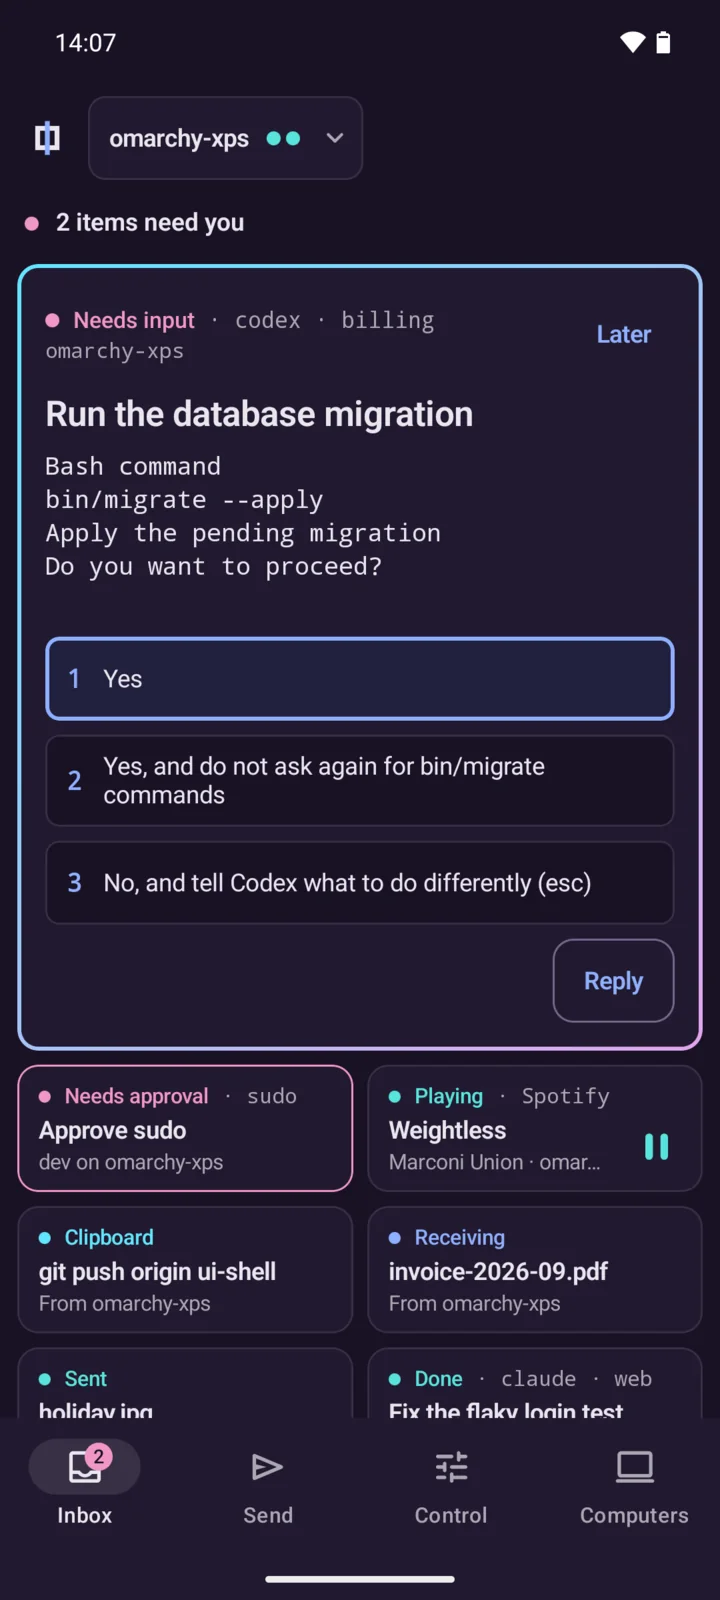
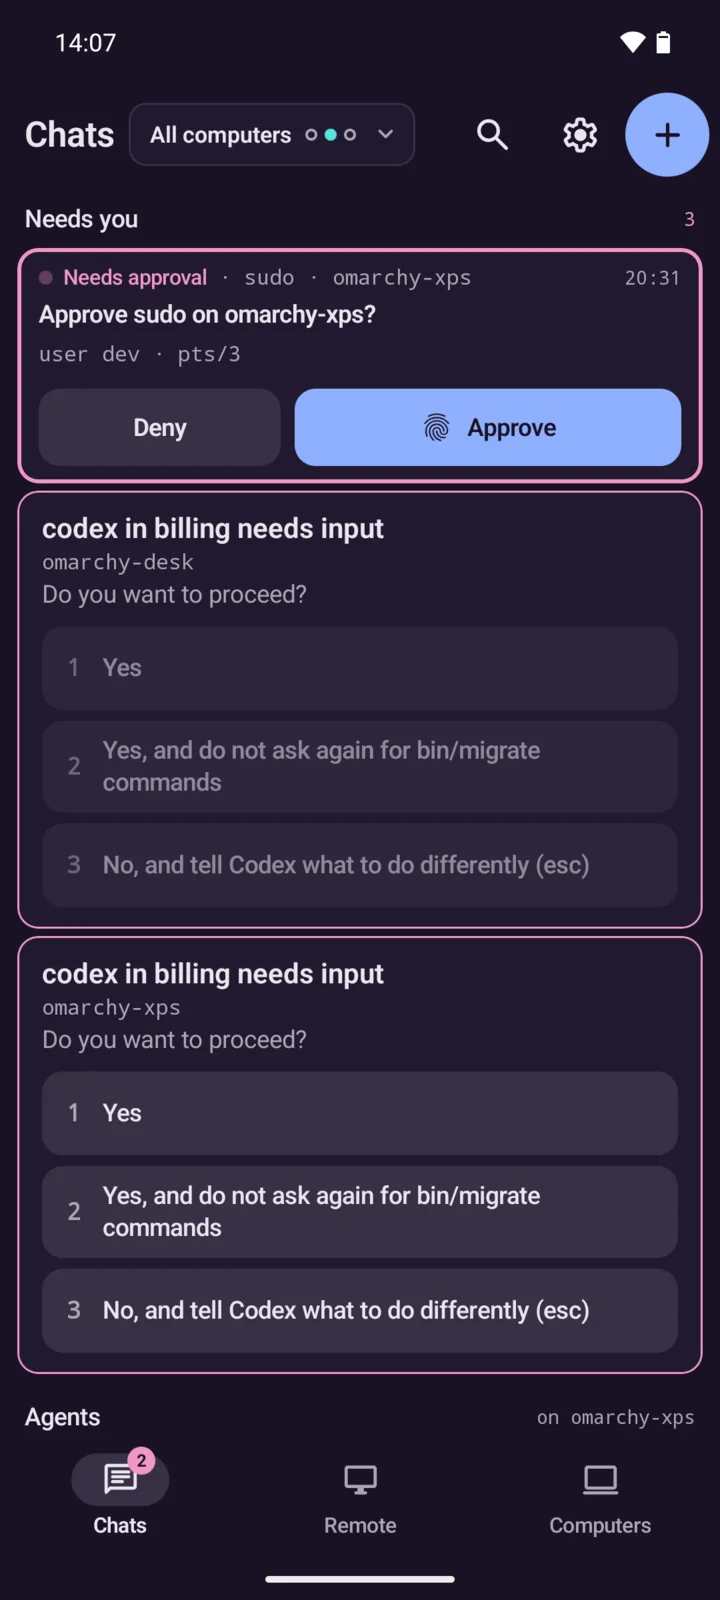
Show Chats, the Send bar, and Remote on the website
Replace the Inbox and Send images with the screens of phase 2.
Capture all phone images again once for the release. Update the
capture script and the social preview.

diff --git a/site/index.html b/site/index.html
@@ -16,7 +16,7 @@
 <meta property="og:image" content="https://bjarneo.github.io/flux/img/og.png">
 <meta property="og:image:width" content="1200">
 <meta property="og:image:height" content="630">
-<meta property="og:image:alt" content="The Flux logo, the time 14:07, and the Flux Inbox on a phone with an agent that waits for an answer.">
+<meta property="og:image:alt" content="The Flux logo, the time 14:07, and Flux Chats on a phone with an agent that waits for an answer.">
 <meta name="twitter:card" content="summary_large_image">
 <link rel="icon" href="favicon.svg" type="image/svg+xml">
 <link rel="preload" href="fonts/mona-sans.woff2" as="font" type="font/woff2" crossorigin>
@@ -57,7 +57,7 @@
   </div>
   <div class="tile hero-phone">
     <figure class="phone">
-      <img src="img/phone/inbox-agent.webp" width="720" height="1600" alt="The Flux Inbox on an Android phone at 14:07. The master tile shows the question of a Codex agent: run bin/migrate --apply. It has 3 numbered choices and a Reply button.">
+      <img src="img/phone/chats-agent.webp" width="720" height="1600" alt="Flux Chats on an Android phone at 14:07. Under Needs you, a sudo request has Deny and Approve, and the question of a Codex agent has 3 numbered choices.">
     </figure>
   </div>
   <nav class="tile times" aria-label="The afternoon">
@@ -102,11 +102,11 @@
 
   <div class="story-cols">
   <div class="moments">
-    <article class="tile moment" data-focus id="m-1407" data-time="14:07" data-label="Agent" data-shot="inbox-agent">
+    <article class="tile moment" data-focus id="m-1407" data-time="14:07" data-label="Agent" data-shot="chats-agent">
       <h3><time>14:07</time> Codex waits for an answer.</h3>
-      <p>The Inbox shows the agent that waits first. It shows the question, and the command that each choice approves. Tap 1, and Flux types the answer into the herdr pane on the computer.</p>
+      <p>Chats shows what needs you first, under <b>Needs you</b>. The card of the agent shows the question and each choice. Tap 1, and Flux types the answer into the herdr pane on the computer. You can also answer from the notification.</p>
       <p class="note">Agent replies need agent control on the computer, and the phone unlock.</p>
-      <figure class="phone phone-inline"><img src="img/phone/inbox-agent.webp" width="720" height="1600" loading="lazy" alt="The Inbox with the question of the Codex agent in the master tile."></figure>
+      <figure class="phone phone-inline"><img src="img/phone/chats-agent.webp" width="720" height="1600" loading="lazy" alt="Chats with the question of the Codex agent under Needs you."></figure>
     </article>
 
     <article class="tile moment" data-focus id="m-1409" data-time="14:09" data-label="Output" data-shot="agent-output">
@@ -115,42 +115,43 @@
       <figure class="phone phone-inline"><img src="img/phone/agent-output.webp" width="720" height="1600" loading="lazy" alt="The output of the Codex agent on the phone, with Output and Changes tabs, the 3 choices, and a text field."></figure>
     </article>
 
-    <article class="tile moment" data-focus id="m-1422" data-time="14:22" data-label="sudo" data-shot="inbox-approval">
+    <article class="tile moment" data-focus id="m-1422" data-time="14:22" data-label="sudo" data-shot="chat-approval">
       <h3><time>14:22</time> sudo asks for your fingerprint.</h3>
       <p>A <code>sudo</code> prompt on the computer shows on the phone. Touch the fingerprint sensor to approve it. The iPhone uses Face ID or Touch ID, and the Mac uses Touch ID.</p>
       <p>Only root on the computer can change the key that checks the approval. If the approval fails or times out, <code>sudo</code> asks for the password.</p>
       <div class="cmd cmd-inline"><code><span class="prompt" aria-hidden="true">~</span>sudo flux-cli approve setup</code><button class="btn btn-tonal btn-s" type="button" data-copy="sudo flux-cli approve setup">Copy</button></div>
-      <figure class="phone phone-inline"><img src="img/phone/inbox-approval.webp" width="720" height="1600" loading="lazy" alt="The Inbox at 14:22 with the request Approve sudo on omarchy-xps in the master tile, and a Review button."></figure>
+      <figure class="phone phone-inline"><img src="img/phone/chat-approval.webp" width="720" height="1600" loading="lazy" alt="The chat of omarchy-xps at 14:22 with the request Approve sudo on omarchy-xps, the buttons Deny and Approve, and the Send bar with Photo, File, Scan, and More."></figure>
     </article>
 
-    <article class="tile moment" data-focus id="m-1540" data-time="15:40" data-label="Clipboard" data-shot="send">
+    <article class="tile moment" data-focus id="m-1540" data-time="15:40" data-label="Clipboard" data-shot="send-bar">
       <h3><time>15:40</time> Copy on the phone, paste on the computer.</h3>
-      <p>Flux sends clipboard text and images in both directions. Send files, photos, and links from the Share menu of any app. Away from home, Flux connects through Tailscale.</p>
-      <figure class="phone phone-inline"><img src="img/phone/send.webp" width="720" height="1600" loading="lazy" alt="The Send screen on mobile data, with Send clipboard, Send files, Get files, and the camera tools."></figure>
+      <p>Flux sends clipboard text and images in both directions. The chat of a computer has a Send bar with <b>Photo</b>, <b>File</b>, <b>Scan</b>, and <b>More</b>. Send files, photos, and links from the Share menu of any app. Away from home, Flux connects through Tailscale.</p>
+      <p class="note">The sync switches are in <b>Settings</b>, from the gear key at the top of Chats.</p>
+      <figure class="phone phone-inline"><img src="img/phone/send-bar.webp" width="720" height="1600" loading="lazy" alt="The chat of omarchy-xps on mobile data, with the clipboard row and the Send bar. The More list shows Camera, Text, QR, and Signature."></figure>
     </article>
 
     <article class="tile moment" data-focus id="m-1612" data-time="16:12" data-label="Files" data-shot="browse">
       <h3><time>16:12</time> Get a file from the computer at home.</h3>
-      <p><b>Get files</b> opens the shared folders of the computer, read-only. Search all of them by name, then save the file on the phone.</p>
+      <p><b>Get files</b> is in the menu of the chat of a computer. It opens the shared folders of the computer, read-only. Search all of them by name, then save the file on the phone.</p>
       <figure class="phone phone-inline"><img src="img/phone/browse.webp" width="720" height="1600" loading="lazy" alt="Get files shows the home folder of the computer, with a search field, folders, and files to download."></figure>
     </article>
 
     <article class="tile moment" data-focus id="m-1730" data-time="17:30" data-label="Media" data-shot="media">
       <h3><time>17:30</time> Pause the music at home.</h3>
-      <p><b>Media</b> shows what plays on the computer. Play, pause, skip, seek, and set the volume. The Inbox also shows what plays now, with play and pause.</p>
+      <p><b>Media</b> shows what plays on the computer. Play, pause, skip, seek, and set the volume. <b>Remote</b> also shows what plays now, with play and pause.</p>
       <figure class="phone phone-inline"><img src="img/phone/media.webp" width="720" height="1600" loading="lazy" alt="The Media screen with the song Weightless, a seek bar, and the previous, pause, and next buttons."></figure>
     </article>
 
     <article class="tile moment" data-focus id="m-1802" data-time="18:02" data-label="Windows" data-shot="omarchy">
       <h3><time>18:02</time> Move a window to another workspace.</h3>
-      <p>The Omarchy panel shows your workspaces and the focused window. Move, close, or float a window. Open the Omarchy menu, a terminal, or a browser with their key bindings.</p>
+      <p>The <b>Omarchy panel</b> in <b>Remote</b> shows your workspaces and the focused window. Move, close, or float a window. Open the Omarchy menu, a terminal, or a browser with their key bindings.</p>
       <figure class="phone phone-inline"><img src="img/phone/omarchy.webp" width="720" height="1600" loading="lazy" alt="The Omarchy panel with workspaces 1 to 10, the window controls, and the launch shortcuts with their key bindings."></figure>
     </article>
 
-    <article class="tile moment" data-focus id="m-1834" data-time="18:34" data-label="Desk" data-shot="touchpad">
+    <article class="tile moment" data-focus id="m-1834" data-time="18:34" data-label="Desk" data-shot="remote">
       <h3><time>18:34</time> At the desk, the phone is a touchpad.</h3>
-      <p>Use the phone as a touchpad and keyboard, a webcam, or a microphone. Show the computer screen on the phone, with its audio. The Flux window on the computer shows what is live, with <b>Stop</b>.</p>
-      <figure class="phone phone-inline"><img src="img/phone/touchpad.webp" width="720" height="1600" loading="lazy" alt="The touchpad and keyboard screen, with a large touch area and keys for esc, tab, arrows, ctrl, alt, shift, and super."></figure>
+      <p><b>Remote</b> has 3 groups. <b>See</b> shows the computer screen on the phone, or adds a second monitor. <b>Use</b> makes the phone a touchpad and keyboard. <b>Share</b> makes the phone a webcam or a microphone, or plays the audio of the computer. The Flux window on the computer shows what is live, with <b>Stop</b>.</p>
+      <figure class="phone phone-inline"><img src="img/phone/remote.webp" width="720" height="1600" loading="lazy" alt="The Remote screen with the groups See, Use, and Share. The rows include Remote desktop, Omarchy panel, Touchpad and keyboard, Webcam, and Mic."></figure>
     </article>
 
     <article class="tile moment" data-focus id="m-1851" data-time="18:51" data-label="Ring" data-shot="ring">
@@ -163,21 +164,21 @@
 
   <div class="stage" aria-hidden="true">
     <figure class="phone" data-stage>
-      <img class="is-on" src="img/phone/inbox-agent.webp" data-shot="inbox-agent" width="720" height="1600" alt="">
+      <img class="is-on" src="img/phone/chats-agent.webp" data-shot="chats-agent" width="720" height="1600" alt="">
       <img src="img/phone/agent-output.webp" data-shot="agent-output" width="720" height="1600" loading="lazy" alt="">
-      <img src="img/phone/inbox-approval.webp" data-shot="inbox-approval" width="720" height="1600" loading="lazy" alt="">
-      <img src="img/phone/send.webp" data-shot="send" width="720" height="1600" loading="lazy" alt="">
+      <img src="img/phone/chat-approval.webp" data-shot="chat-approval" width="720" height="1600" loading="lazy" alt="">
+      <img src="img/phone/send-bar.webp" data-shot="send-bar" width="720" height="1600" loading="lazy" alt="">
       <img src="img/phone/browse.webp" data-shot="browse" width="720" height="1600" loading="lazy" alt="">
       <img src="img/phone/media.webp" data-shot="media" width="720" height="1600" loading="lazy" alt="">
       <img src="img/phone/omarchy.webp" data-shot="omarchy" width="720" height="1600" loading="lazy" alt="">
-      <img src="img/phone/touchpad.webp" data-shot="touchpad" width="720" height="1600" loading="lazy" alt="">
+      <img src="img/phone/remote.webp" data-shot="remote" width="720" height="1600" loading="lazy" alt="">
       <img src="img/phone/ring.webp" data-shot="ring" width="720" height="1600" loading="lazy" alt="">
     </figure>
   </div>
   </div>
   </div>
 
-  <p class="story-foot">The screens show Flux for Android 0.12.0 in demo mode, with sample computers and agents.</p>
+  <p class="story-foot">The screens show Flux for Android in demo mode, with sample computers and agents.</p>
 </section>
 
 <section class="tile computer" id="computer" data-focus aria-labelledby="computer-title">
@@ -206,11 +207,11 @@
     <p class="note">Tokyo Night is the default when the computer sends no theme.</p>
   </div>
   <figure class="phone" data-theme-phone>
-    <img class="is-on" src="img/phone/inbox-agent.webp" data-shot="tokyo-night" width="720" height="1600" loading="lazy" alt="The Flux Inbox in the Tokyo Night theme.">
-    <img src="img/phone/theme-catppuccin-latte.webp" data-shot="catppuccin-latte" width="720" height="1600" loading="lazy" alt="The Flux Inbox in the light Catppuccin Latte theme.">
-    <img src="img/phone/theme-neon.webp" data-shot="neon" width="720" height="1600" loading="lazy" alt="The Flux Inbox in the Neon theme.">
-    <img src="img/phone/theme-futurism.webp" data-shot="futurism" width="720" height="1600" loading="lazy" alt="The Flux Inbox in the Futurism theme.">
-    <img src="img/phone/theme-cotton-candy.webp" data-shot="cotton-candy" width="720" height="1600" loading="lazy" alt="The Flux Inbox in the Cotton Candy theme.">
+    <img class="is-on" src="img/phone/chats-agent.webp" data-shot="tokyo-night" width="720" height="1600" loading="lazy" alt="Flux Chats in the Tokyo Night theme.">
+    <img src="img/phone/theme-catppuccin-latte.webp" data-shot="catppuccin-latte" width="720" height="1600" loading="lazy" alt="Flux Chats in the light Catppuccin Latte theme.">
+    <img src="img/phone/theme-neon.webp" data-shot="neon" width="720" height="1600" loading="lazy" alt="Flux Chats in the Neon theme.">
+    <img src="img/phone/theme-futurism.webp" data-shot="futurism" width="720" height="1600" loading="lazy" alt="Flux Chats in the Futurism theme.">
+    <img src="img/phone/theme-cotton-candy.webp" data-shot="cotton-candy" width="720" height="1600" loading="lazy" alt="Flux Chats in the Cotton Candy theme.">
   </figure>
 </section>
 
@@ -282,7 +283,7 @@
       <dd><a href="https://github.com/bjarneo/flux/blob/master/docs/features.md#automatic-screenshots-and-photos">New screenshots and photos to the computer</a></dd>
     </div>
     <div>
-      <dt>Control</dt>
+      <dt>Remote</dt>
       <dd><a href="https://github.com/bjarneo/flux/blob/master/docs/remote-input.md">Touchpad and keyboard</a></dd>
       <dd><a href="https://github.com/bjarneo/flux/blob/master/docs/remote-desktop.md">Remote desktop with audio</a></dd>
       <dd><a href="https://github.com/bjarneo/flux/blob/master/docs/features.md#dictation-in-text-fields">Dictation in text fields</a></dd>

diff --git a/site/main.js b/site/main.js
@@ -131,7 +131,7 @@ window.addEventListener('load', queue)
 queue()
 
 // The theme section takes the colors of the picked theme, and the phone
-// shows the Inbox in that theme.
+// shows Chats in that theme.
 const themes = document.querySelector('.themes')
 if (themes) {
   const chips = [...themes.querySelectorAll('[data-pick]')]

diff --git a/site/tools/og.html b/site/tools/og.html
@@ -32,7 +32,7 @@
     </div>
   </div>
   <div class="tile right">
-    <figure class="phone"><img src="../img/phone/inbox-agent.webp" width="720" height="1600" alt=""></figure>
+    <figure class="phone"><img src="../img/phone/chats-agent.webp" width="720" height="1600" alt=""></figure>
   </div>
 </body>
 </html>
